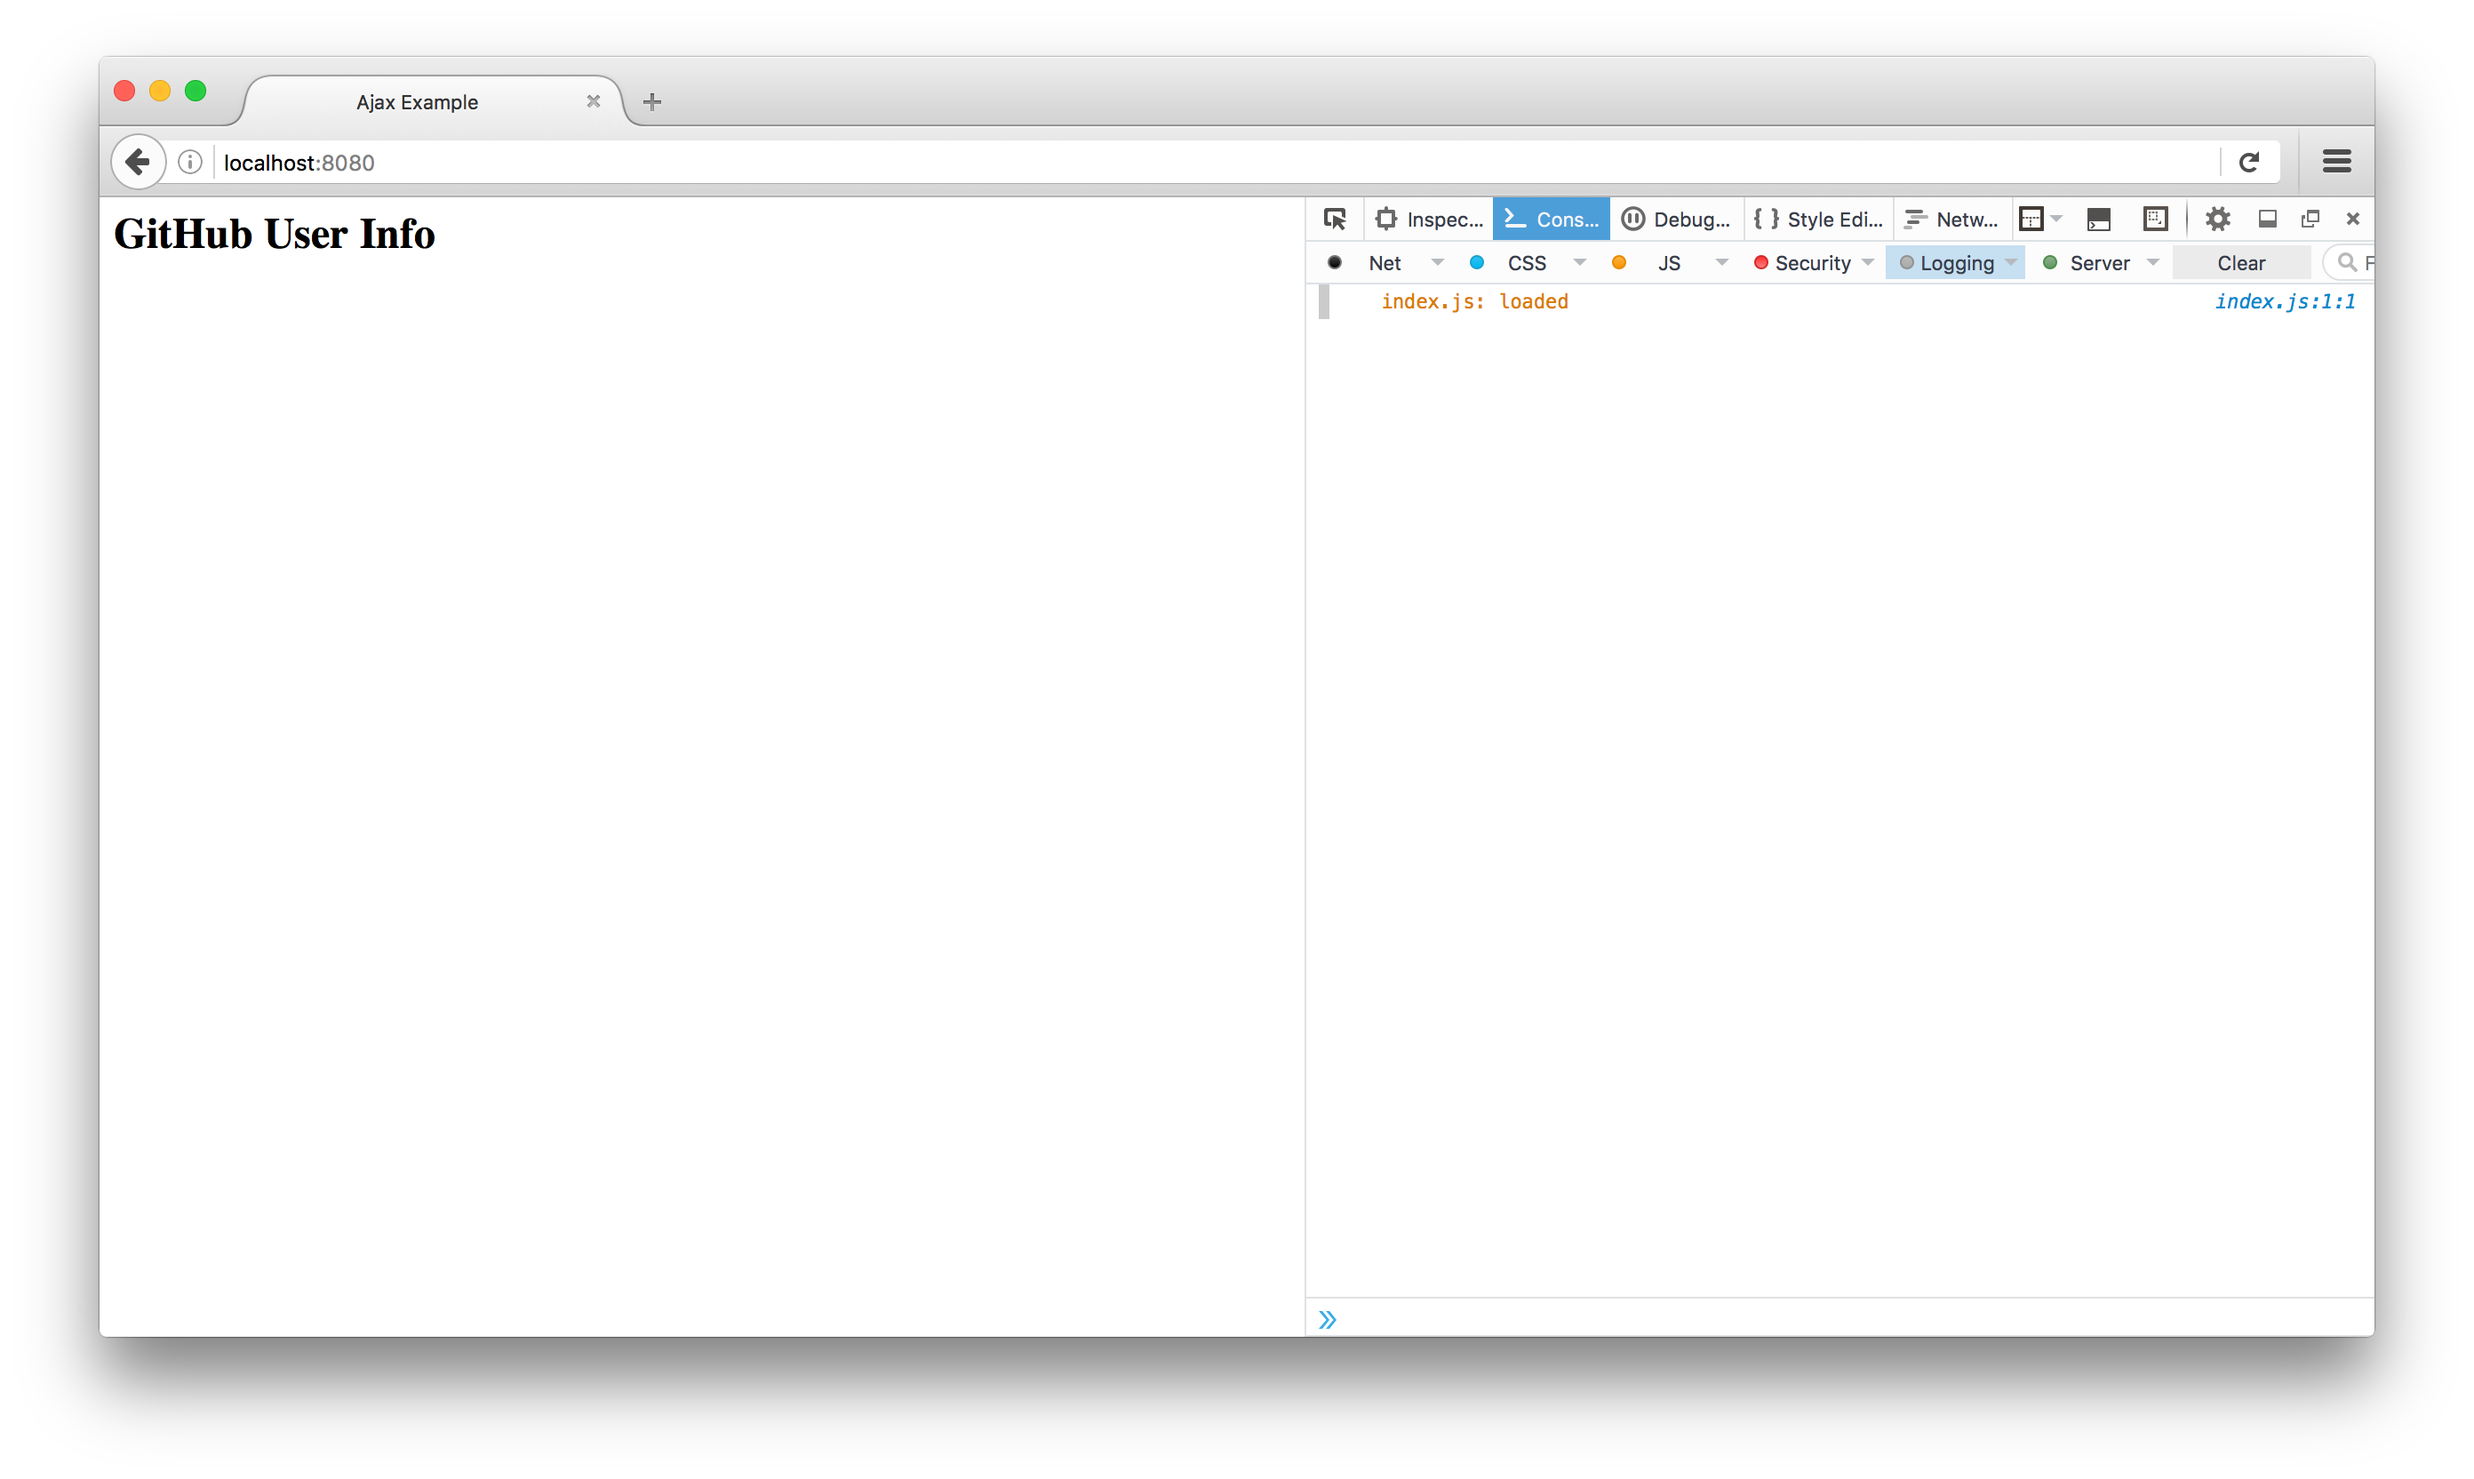
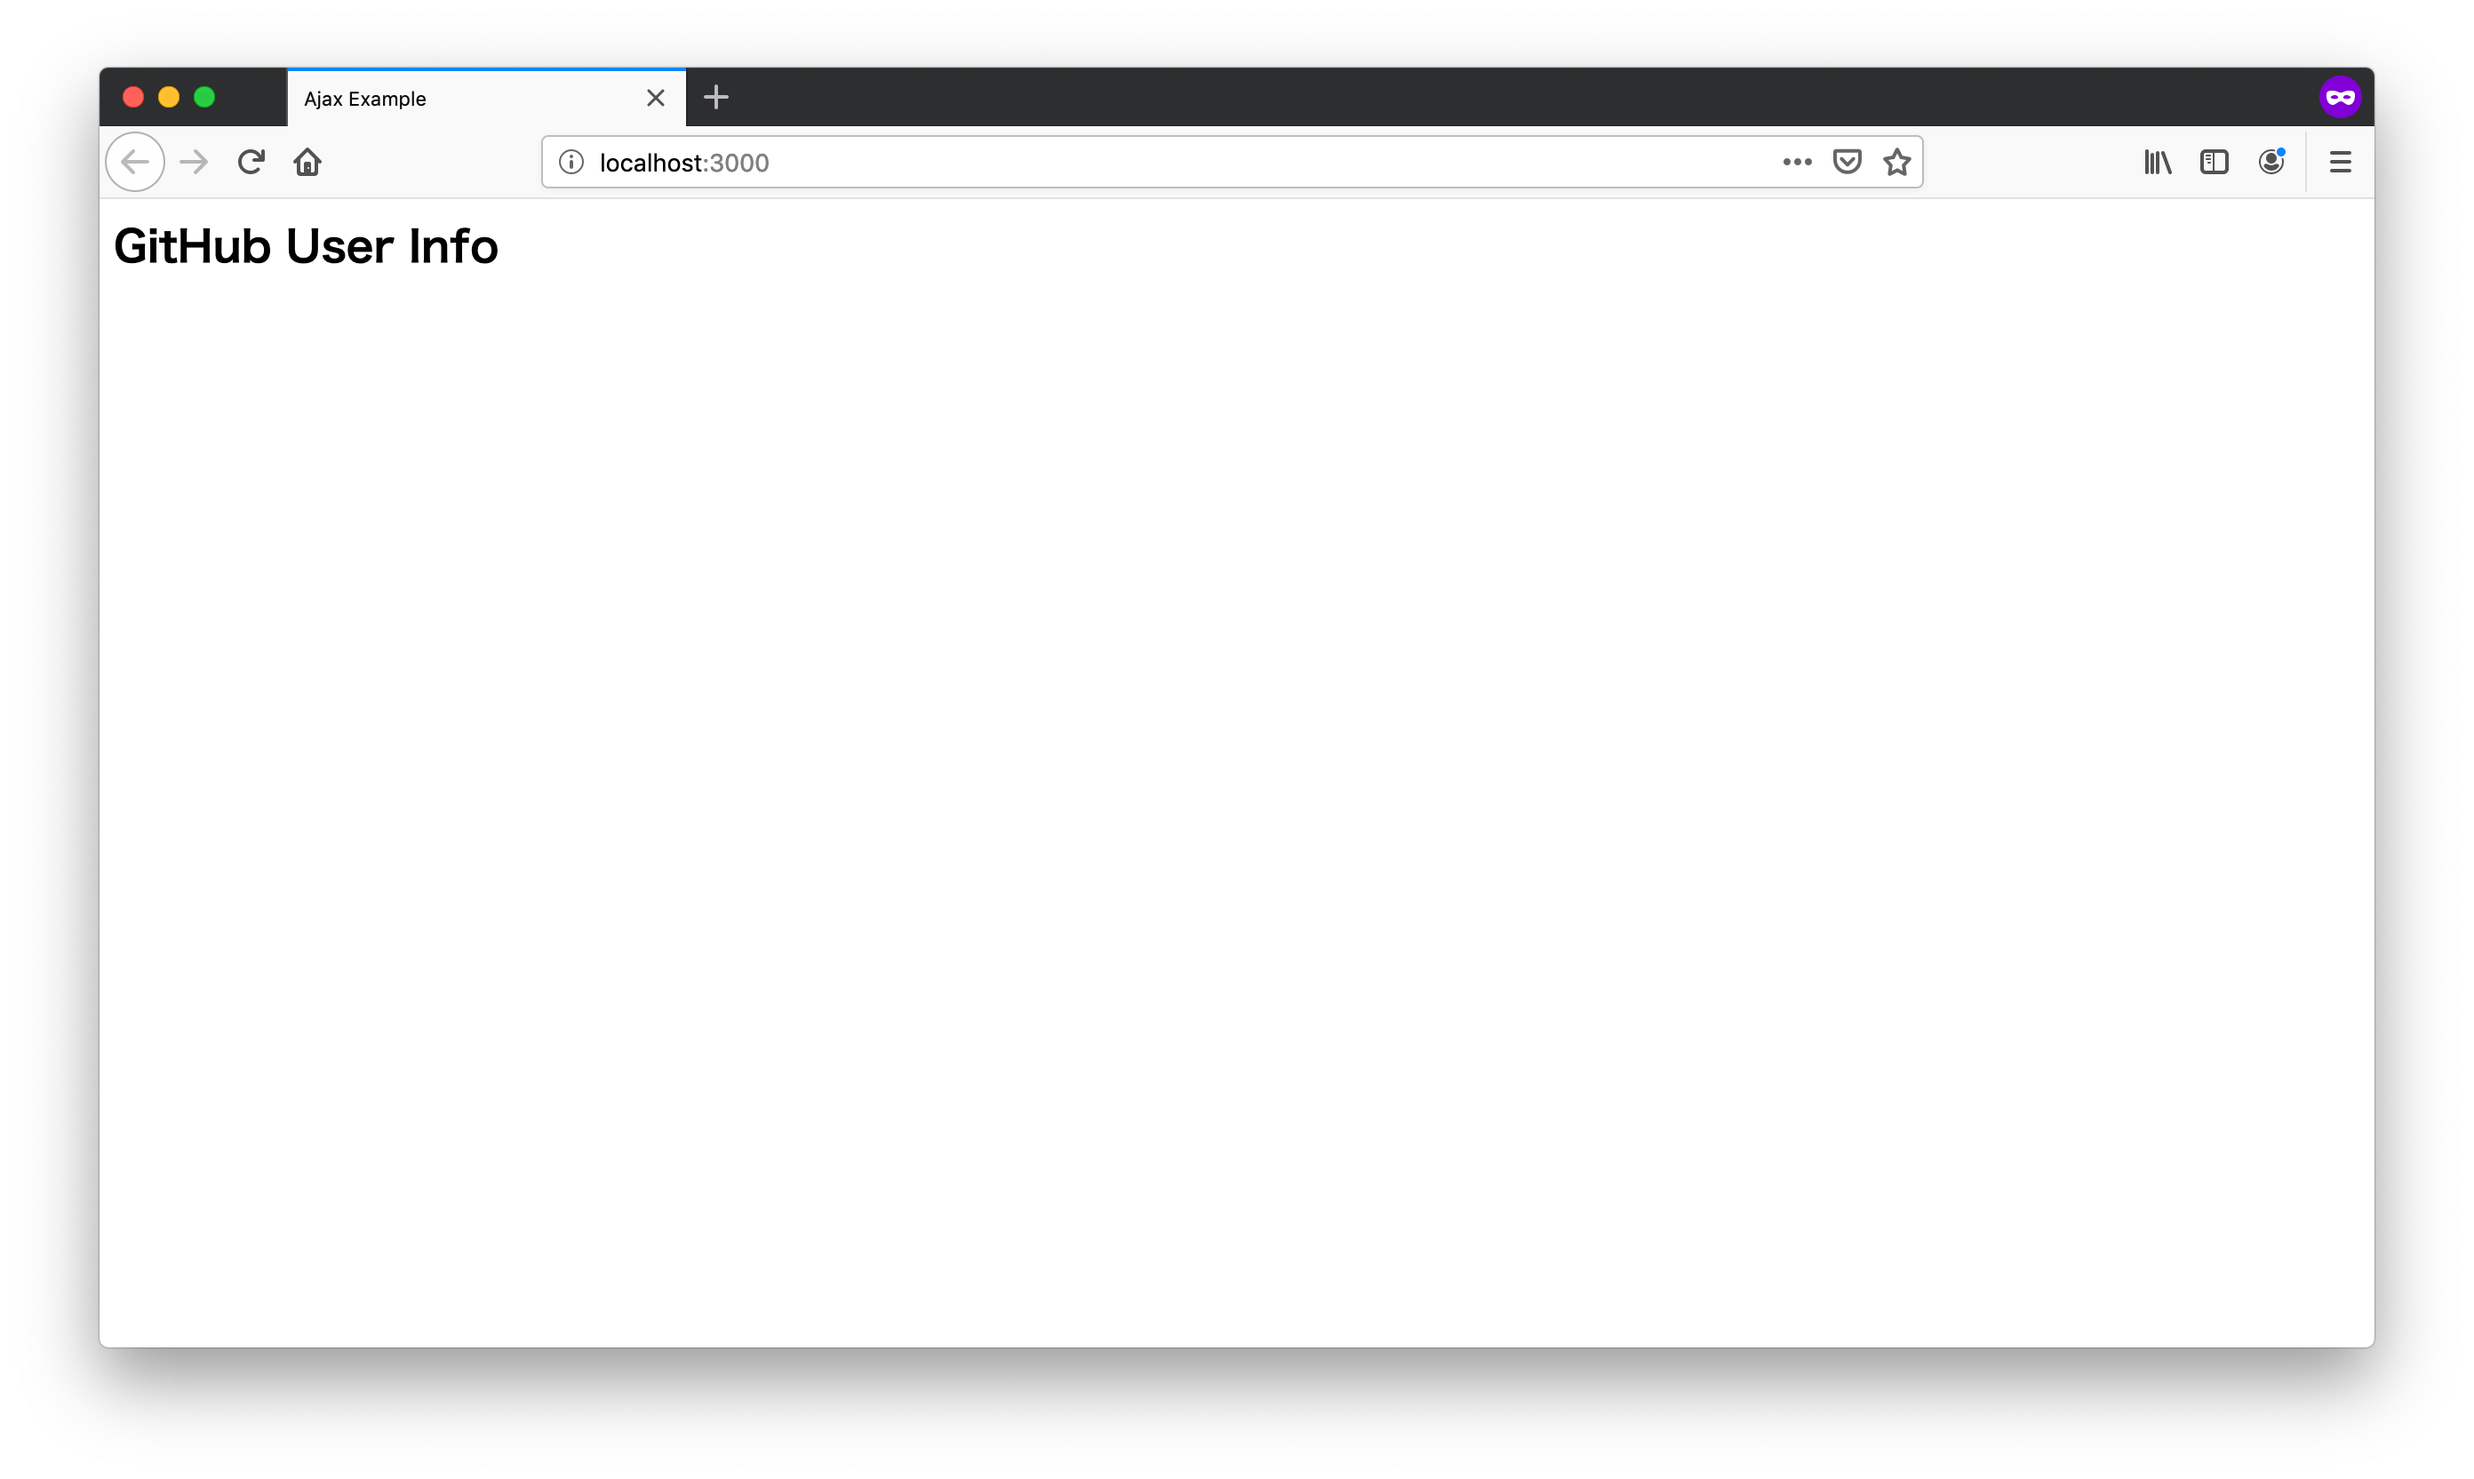
refactor(ajax): エントリポイントのリファクタリング
- ディレクトリやファイル名を明示するように
- スクリーンショットの更新

Changed region(s): [[0.0312, 0.0312, 0.9688, 0.2188], [0.0312, 0.875, 0.9688, 0.9375]]

diff --git a/source/use-case/ajaxapp/entrypoint/README.md b/source/use-case/ajaxapp/entrypoint/README.md
@@ -11,30 +11,50 @@ description: "アプリケーションの中で一番最初に呼び出される
 Webアプリケーションにおいては、常にHTMLドキュメントがエントリポイントとなります。
 ウェブブラウザによりHTMLドキュメントが読み込まれたあとに、HTMLドキュメント中で読み込まれたJavaScriptが実行されます。
 
+## プロジェクトディレクトリを作成 {#create-project-directory}
+
+今回作成するアプリにはHTMLやJavaScriptなど複数のファイルが必要となります。そのため、まずそれらを置くためのディレクトリを作成します。
+
+ここでは `ajaxapp` という名前で新しいディレクトリを作成します。ここから、作成した`ajaxapp`ディレクトリ以下で作業していきます。
+
 ## HTMLファイルの用意 {#preparing-html}
 
-エントリポイントとして、まずは最低限の要素だけを配置したHTMLファイルを作成しましょう。
-`body`要素の一番下で読み込んでいるindex.jsが、今回のアプリケーションの処理を記述するJavaScriptファイルです。
+エントリポイントとして、まずは最低限の要素だけを配置したHTMLファイルを`index.html`というファイル名で作成しましょう。
+`body`要素の一番下で読み込んでいる`index.js`が、今回のアプリケーションの処理を記述するJavaScriptファイルです。
 
-[import index.html](src/index.html)
+[import, title:"index.html"](src/index.html)
 
-index.jsには、スクリプトが正しく読み込まれたことを確認できるよう、コンソールにログを出力する処理だけを書いておきます。
+次に同じディレクトリに`index.js`というファイルを作成します。
+`index.js`にはスクリプトが正しく読み込まれたことを確認できるよう、コンソールにログを出力する処理だけを書いておきます。
 
-[import index.js](src/index.js)
+[import, title:"index.js"](src/index.js)
 
-開発用のローカルサーバーを立ち上げて、ウェブブラウザでindex.htmlにアクセスしてみましょう。
+ここでの`ajaxapp`ディレクトリのファイル配置は次のようになっていれば問題ありません。
+
+```
+ajaxapp
+├── index.html
+└── index.js
+```
+
+次はこの`index.html`をブラウザで表示して、コンソールにログが出力されることを確認していきます。
+
+## ローカルサーバーでHTMLを確認する {#local-server}
+
+ウェブブラウザで`index.html`を開く前に、開発用のローカルサーバーを準備します。 
 ローカルサーバーを立ち上げずに直接HTMLファイルを開くこともできますが、その場合`file:///`から始まるURLになります。
 `file`スキーマでは[Same Origin Policy][]のセキュリティ制限により、多くの場面でアプリケーションは正しく動作しません。
 本章はローカルサーバーを立ち上げた上で、`http`スキーマのURLでアクセスすることを前提としています。
 
-次のように`npx`コマンドを使い、この書籍用に作成された`@js-primer/local-server`というローカルサーバーモジュールをダウンロードと同時に実行します。
+コマンドラインで`ajaxapp`ディレクトリへ移動し、次のコマンドでローカルサーバーを起動します。 
+次のコマンドでは、この書籍用に作成された`@js-primer/local-server`というローカルサーバーモジュールをダウンロードと同時に実行します。
 まだ`npx`コマンドの用意できていなければ、先に[アプリケーション開発の準備][]を参照してください。
 
 ```shell-session
 $ npx @js-primer/local-server
 ```
  
-起動したローカルサーバーのURL（`http://localhost:3000`）へブラウザでアクセスすると、次の画像のようにログが出力されます。
+起動したローカルサーバーのURL（`http://localhost:3000`）へブラウザでアクセスすると、次の画像のようにコンソールログが出力されます。
 Console APIで出力したログを確認するには、ウェブブラウザの開発者ツールを開く必要があります。
 ほとんどのブラウザで開発者ツールが同梱されていますが、本章ではFirefoxを使って確認します。
 Firefoxの開発者ツールは次のいずれかの方法で開きます。
@@ -48,9 +68,12 @@ Firefoxの開発者ツールは次のいずれかの方法で開きます。
 
 ## このセクションのチェックリスト {#section-checklist}
 
+このセクションでは、エントリポイントとなるHTMLを作成し、JavaScriptモジュールのエントリポイントとなるJavaScriptファイルを読み込むところまでを実装しました。
+
+- `ajaxapp`という名前のプロジェクトディレクトリを作成した
 - エントリポイントとなる`index.html`を作成した
 - JavaScriptのエントリポイントとなる`index.js`を作成し`index.html`から読み込んだ
-- ローカルサーバーを使って`index.html`が表示できた
+- ローカルサーバーを使ってブラウザで`index.html`を表示できた
 - `index.js`からコンソールに出力されたログを確認した
 
 [Same Origin Policy]: https://developer.mozilla.org/ja/docs/Web/Security/Same-origin_policy 
